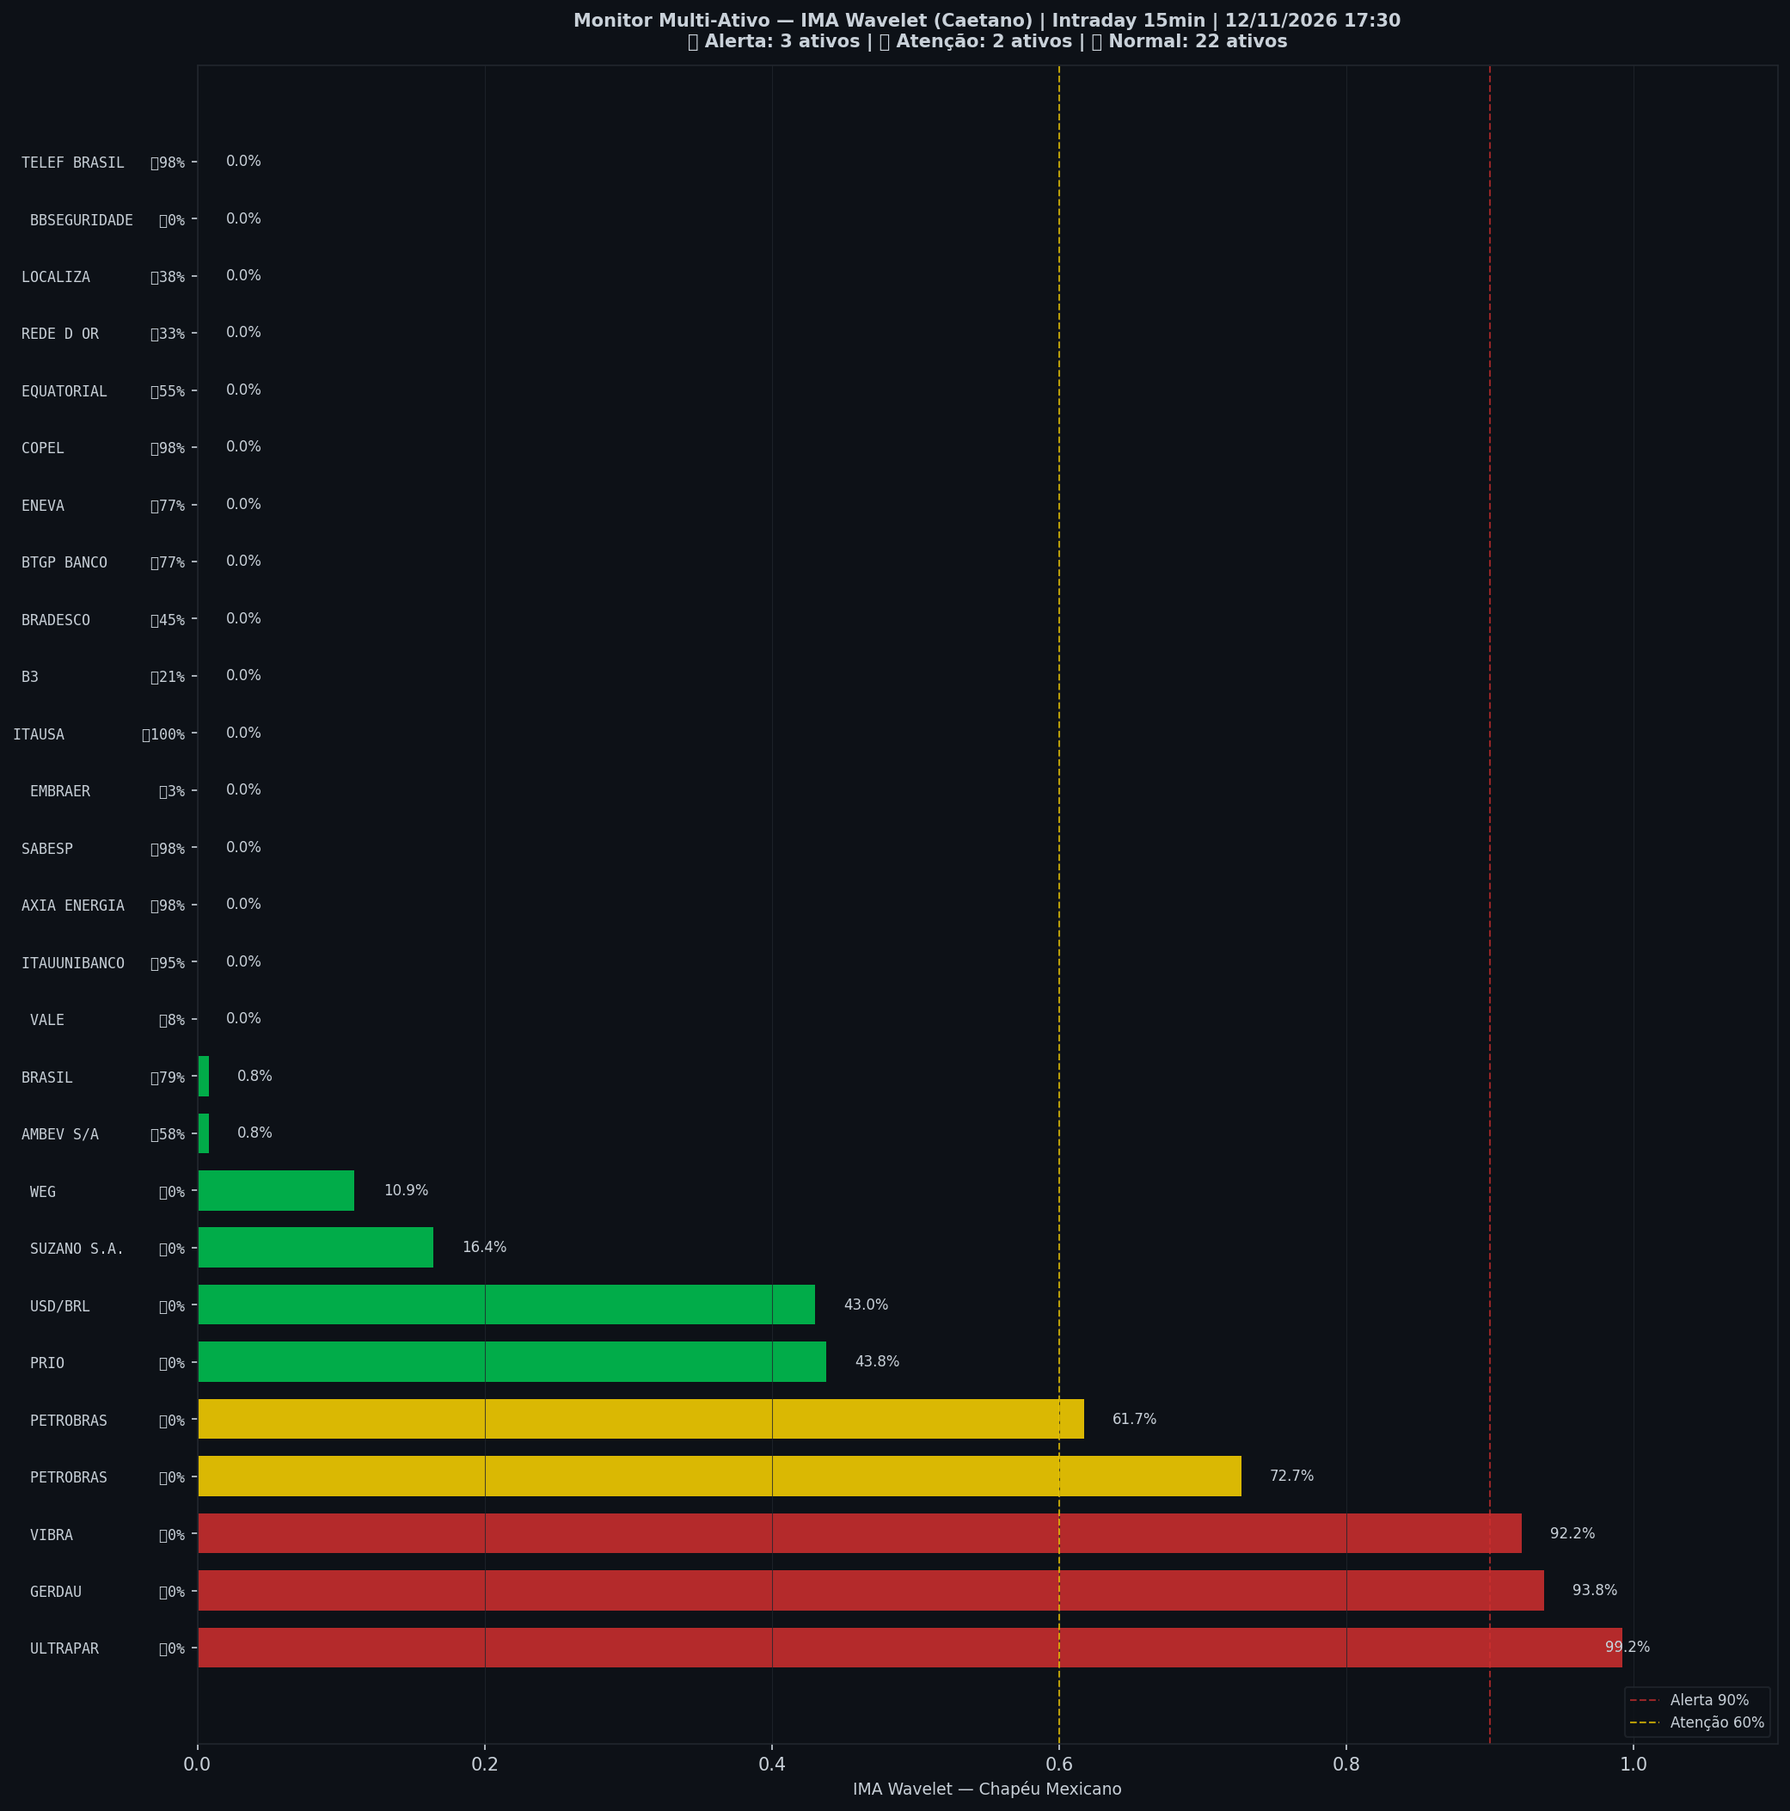
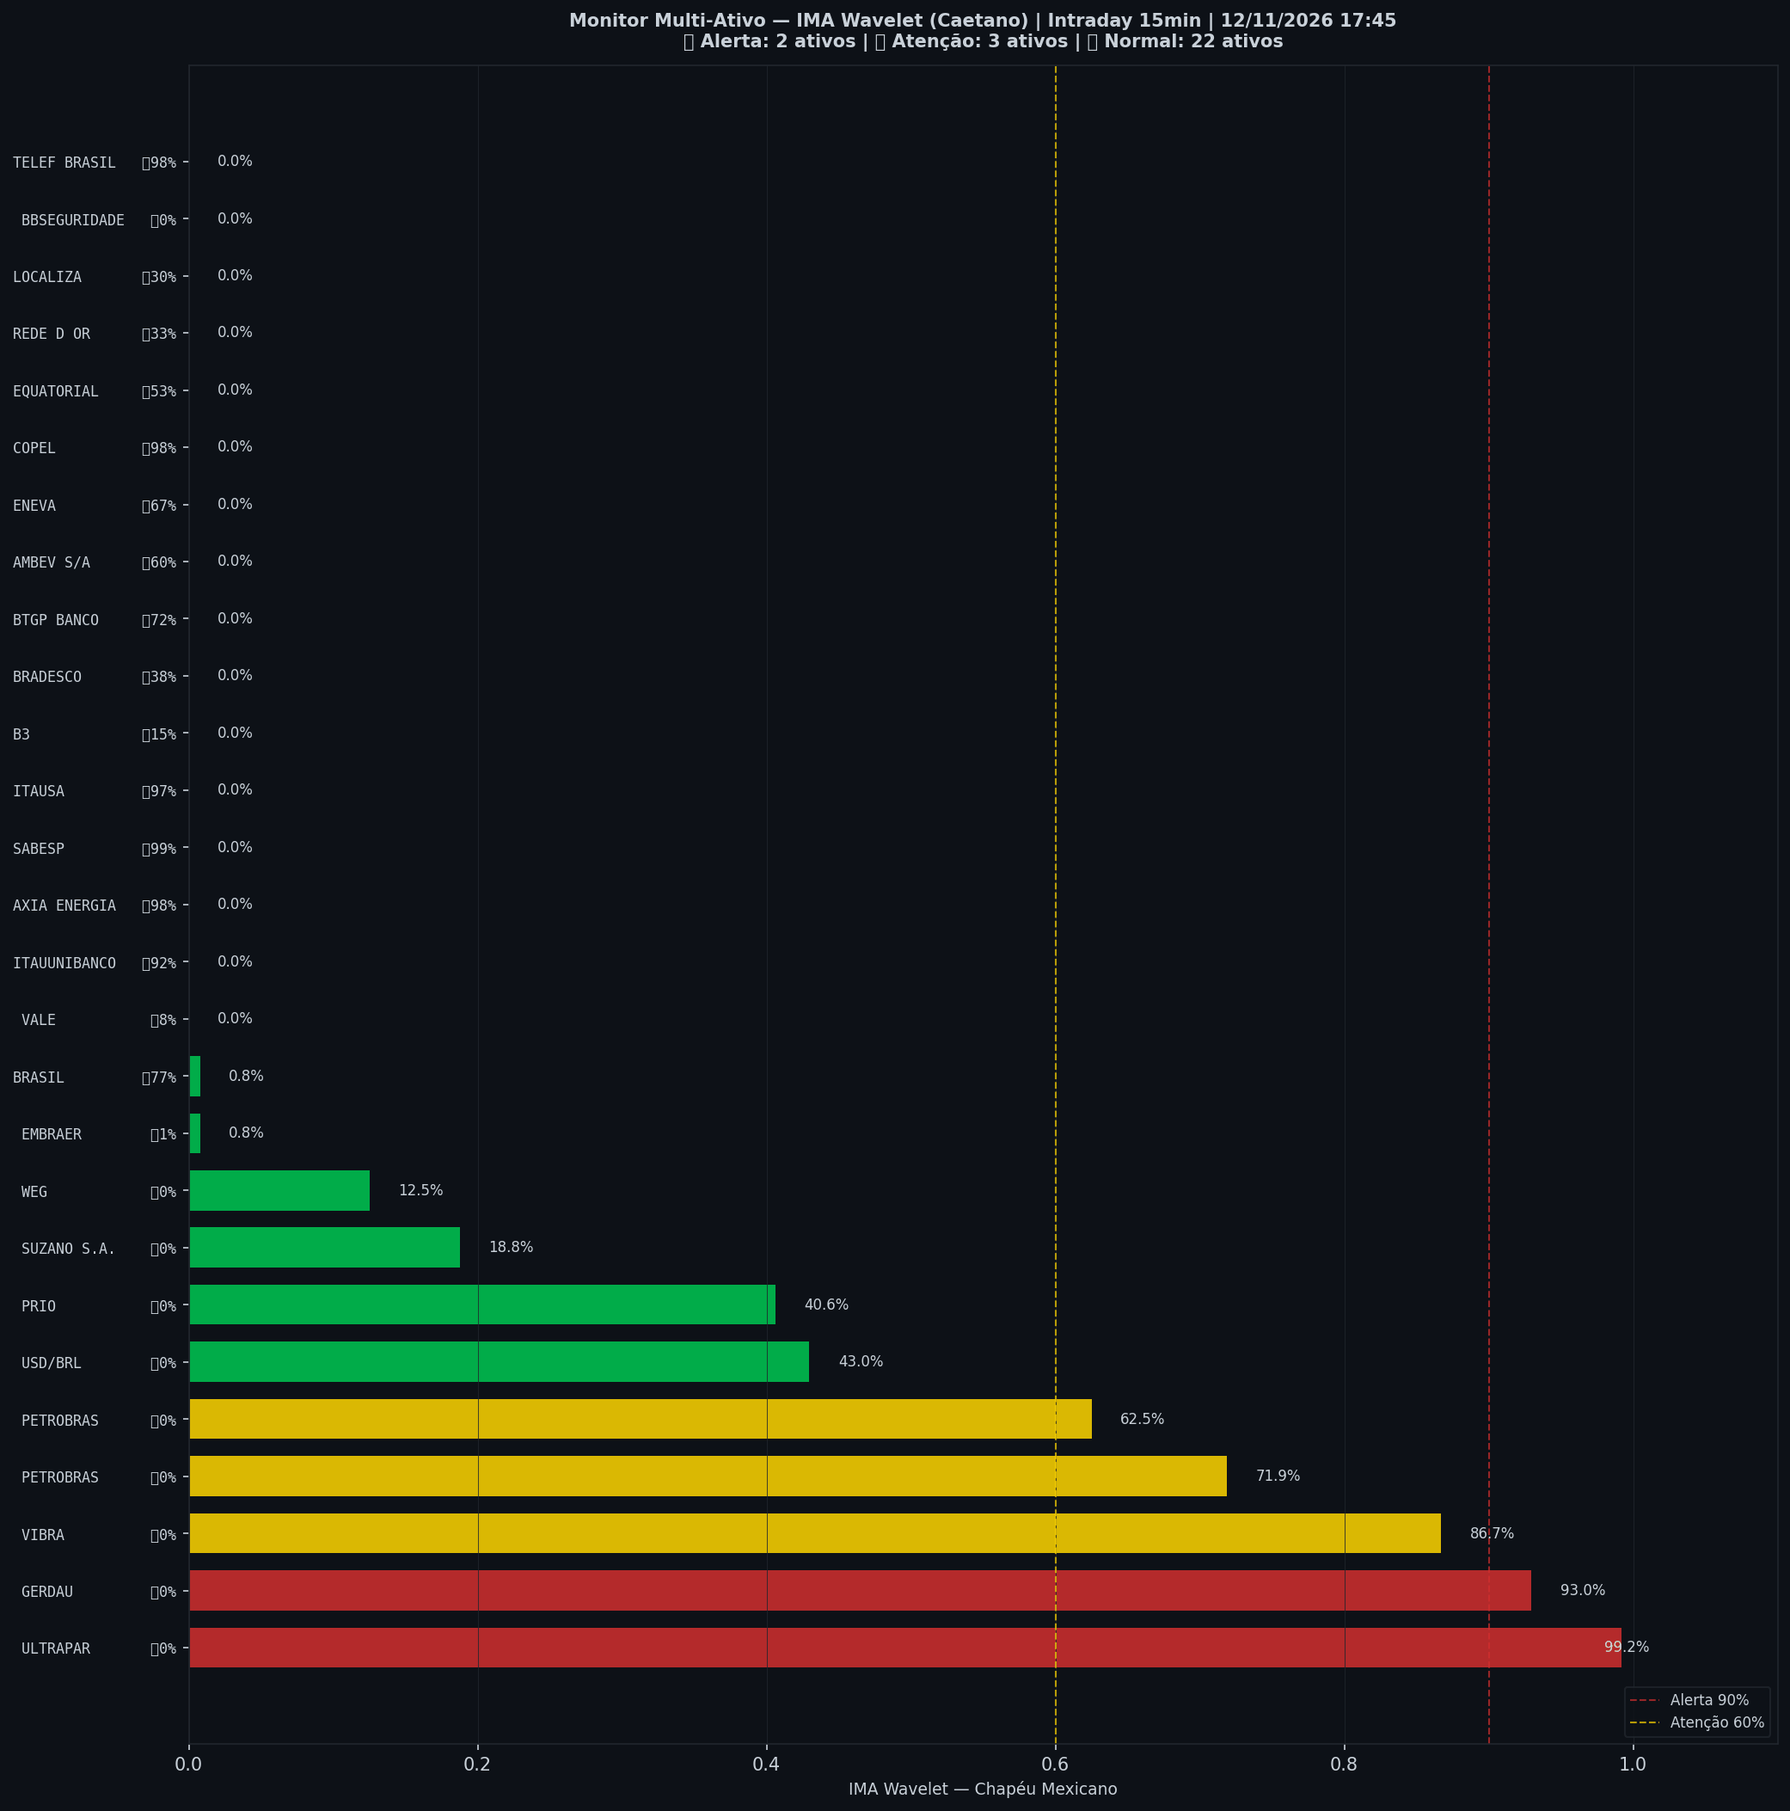
🤖 Auto: Sinal 12/11/2026 17:45

diff --git a/content/intraday/2026-11-12.md b/content/intraday/2026-11-12.md
@@ -1,10 +1,10 @@
 ---
-title: "🟢 Intraday 12/11/2026 17:15 BRT — VERDE"
+title: "🟢 Intraday 12/11/2026 17:30 BRT — VERDE"
 date: 2026-11-12
 tags: [intraday]
 ---
 
-> [!info] Onde o mercado está agora (12/11 17:15, candles de 15 min): **🔵 Esticado para baixo**
+> [!info] Onde o mercado está agora (12/11 17:30, candles de 15 min): **🔵 Esticado para baixo**
 > `Pânico ◀───●─────────────────▶ Euforia`
 >
 > O Ibovespa caiu mais rápido que o normal e está abaixo da sua faixa habitual.
@@ -20,26 +20,26 @@ tags: [intraday]
 > | 📍 **Sinais** | hoje: nenhum sinal | [abrir](sinais-topo-fundo/) |
 > | 🧪 **Placar ao vivo** | 1 operação(ões), 0 com lucro, soma -0,8% | [abrir](operacoes/) |
 
-> [!success] IMA Intraday · 15 min (12/11 17:15): 🟢 **VERDE** — Risco 0% · ＝ +0 p.p. vs leitura anterior
+> [!success] IMA Intraday · 15 min (12/11 17:30): 🟢 **VERDE** — Risco 0% · ＝ +0 p.p. vs leitura anterior
 > `░░░░░░░░░░░░░░░░░░░░`
 > Preço na faixa normal em torno da tendência.
 
 
-> [!warning] ⚠ Nível alto agora — IMA Intraday · 15 min (12/11 17:15)
-> - 🔵 **ζ Fundo 71%** — preço esticado abaixo da tendência
+> [!warning] ⚠ Nível alto agora — IMA Intraday · 15 min (12/11 17:30)
+> - 🔵 **ζ Fundo 68%** — preço esticado abaixo da tendência
 
 > [!note] 🧭 IMA Diário · viés (11/11): 🌱 **Fundo se desfazendo**
 > 📚 só contexto: o pânico passou; sem vantagem estatística confirmada para comprar só por isso
 >
 > *Leitura educacional baseada em 26 anos de dados, não recomendação. [Como usar](../metodologia/crise#3-como-usar-na-prática).*
 
-| Indicador — IMA Intraday · 15 min (12/11 17:15) | Valor |
+| Indicador — IMA Intraday · 15 min (12/11 17:30) | Valor |
 |---|---|
 | 🔴 ζ Topo — preço esticado acima da tendência | **0%** |
-| 🔵 ζ Fundo — preço esticado abaixo da tendência | 🔵 **71%** |
+| 🔵 ζ Fundo — preço esticado abaixo da tendência | 🔵 **68%** |
 | 🫧 LPPL bolha — alta super-exponencial (risco de crash) | 0% |
 | 🫧 LPPL antibolha — queda super-exponencial (risco de repique) | 0% |
-| 📊 Ibovespa | 170.693 pts |
+| 📊 Ibovespa | 170.880 pts |
 
 ![Gráfico do sinal](../graficos/sinal_intraday.png)
 
@@ -47,6 +47,7 @@ tags: [intraday]
 
 | Data | Zona | Evento | Risco | ζ Topo | ζ Fundo | LPPL |
 |---|---|---|---|---|---|---|
+| 2026-11-12 17:30 | 🟢 VERDE |  | **0%** | 0% | 🔵 **68%** | 0% |
 | 2026-11-12 17:15 | 🟢 VERDE |  | **0%** | 0% | 🔵 **71%** | 0% |
 | 2026-11-12 17:00 | 🟢 VERDE |  | **0%** | 0% | 🔵 **74%** | 0% |
 | 2026-11-12 16:45 | 🟢 VERDE |  | **0%** | 0% | 🔵 **74%** | 0% |
@@ -76,52 +77,51 @@ tags: [intraday]
 | 2026-11-12 10:45 | 🟢 VERDE |  | **0%** | 0% | 21% | 0% |
 | 2026-11-12 10:30 | 🟢 VERDE |  | **1%** | 1% | 17% | 0% |
 | 2026-11-12 10:15 | 🟢 VERDE |  | **2%** | 2% | 12% | 0% |
-| 2026-11-12 10:00 | 🟢 VERDE |  | **2%** | 2% | 7% | 0% |
 
 <small>Destaques: 🟡 ≥ 60% · 🔴 ≥ 90% (Risco e ζ Topo) · 🔵 ≥ 60% · 🔪 ≥ 90% (ζ Fundo) · 🫧 ≥ 30% · 🫧🔴 ≥ 50% (LPPL)</small>
 
 ## Monitor Multi-Ativo
 
-**19% dos ativos em tensão** (3🔴 2🟡) · **9 com ζ Fundo alto** — quanto mais ativos disparam juntos, mais confiável o sinal.
+**19% dos ativos em tensão** (3🔴 2🟡) · **10 com ζ Fundo alto** — quanto mais ativos disparam juntos, mais confiável o sinal.
 
 > [!danger] Em destaque no multi-ativo
-> 🔪 **ITAUSA** ζ Fundo 100% · 🔴 **ULTRAPAR** ζ Topo 99% · 🔪 **SABESP** ζ Fundo 98% · 🔪 **AXIA ENERGIA** ζ Fundo 98% · 🔪 **COPEL** ζ Fundo 98% · 🔪 **TELEF BRASIL** ζ Fundo 98% · 🔪 **ITAUUNIBANCO** ζ Fundo 95% · 🔴 **GERDAU** ζ Topo 94% · 🔴 **VIBRA** ζ Topo 92% · 🔵 **BRASIL** ζ Fundo 79% · 🔵 **ENEVA** ζ Fundo 77% · 🔵 **BTGP BANCO** ζ Fundo 77% · 🟡 **PETROBRAS** ζ Topo 73% · 🟡 **PETROBRAS** ζ Topo 62%
+> 🔪 **SABESP** ζ Fundo 99% · 🔴 **ULTRAPAR** ζ Topo 99% · 🔪 **AXIA ENERGIA** ζ Fundo 98% · 🔪 **COPEL** ζ Fundo 98% · 🔪 **TELEF BRASIL** ζ Fundo 98% · 🔪 **ITAUSA** ζ Fundo 97% · 🔴 **GERDAU** ζ Topo 93% · 🔪 **ITAUUNIBANCO** ζ Fundo 92% · 🟡 **VIBRA** ζ Topo 87% · 🔵 **BRASIL** ζ Fundo 77% · 🟡 **PETROBRAS** ζ Topo 72% · 🔵 **BTGP BANCO** ζ Fundo 72% · 🔵 **ENEVA** ζ Fundo 67% · 🟡 **PETROBRAS** ζ Topo 62% · 🔵 **AMBEV S/A** ζ Fundo 60%
 
 | Zona | Ativo | Setor | ζ Topo | ζ Fundo |
 |---|---|---|---|---|
-| 🟢 | **ITAUSA** | Financeiro | 0.0% | 🔪 **100.0%** |
+| 🟢 | **SABESP** | Saneamento | 0.0% | 🔪 **99.2%** |
 | 🔴 | **ULTRAPAR** | Outros | 🔴 **99.2%** | 0.0% |
-| 🟢 | **SABESP** | Saneamento | 0.0% | 🔪 **98.4%** |
 | 🟢 | **AXIA ENERGIA** | Energia | 0.0% | 🔪 **97.7%** |
 | 🟢 | **COPEL** | Energia | 0.0% | 🔪 **97.7%** |
 | 🟢 | **TELEF BRASIL** | Outros | 0.0% | 🔪 **97.7%** |
-| 🟢 | **ITAUUNIBANCO** | Financeiro | 0.0% | 🔪 **94.5%** |
-| 🔴 | **GERDAU** | Siderurgia | 🔴 **93.8%** | 0.0% |
-| 🔴 | **VIBRA** | Energia | 🔴 **92.2%** | 0.0% |
-| 🟢 | **BRASIL** | Financeiro | 0.8% | 🔵 **78.9%** |
-| 🟢 | **ENEVA** | Energia | 0.0% | 🔵 **77.3%** |
-| 🟢 | **BTGP BANCO** | Financeiro | 0.0% | 🔵 **76.6%** |
-| 🟡 | **PETROBRAS** | Petróleo | 🟡 **72.7%** | 0.0% |
-| 🟡 | **PETROBRAS** | Petróleo | 🟡 **61.7%** | 0.0% |
-| 🟢 | **AMBEV S/A** | Consumo | 0.8% | 57.8% |
-| 🟢 | **EQUATORIAL** | Energia | 0.0% | 55.5% |
-| 🟢 | **BRADESCO** | Financeiro | 0.0% | 44.5% |
-| 🟢 | **PRIO** | Petróleo | 43.8% | 0.0% |
+| 🟢 | **ITAUSA** | Financeiro | 0.0% | 🔪 **96.9%** |
+| 🔴 | **GERDAU** | Siderurgia | 🔴 **93.0%** | 0.0% |
+| 🟢 | **ITAUUNIBANCO** | Financeiro | 0.0% | 🔪 **92.2%** |
+| 🔴 | **VIBRA** | Energia | 🟡 **86.7%** | 0.0% |
+| 🟢 | **BRASIL** | Financeiro | 0.8% | 🔵 **76.6%** |
+| 🟡 | **PETROBRAS** | Petróleo | 🟡 **71.9%** | 0.0% |
+| 🟢 | **BTGP BANCO** | Financeiro | 0.0% | 🔵 **71.9%** |
+| 🟢 | **ENEVA** | Energia | 0.0% | 🔵 **67.2%** |
+| 🟡 | **PETROBRAS** | Petróleo | 🟡 **62.5%** | 0.0% |
+| 🟢 | **AMBEV S/A** | Consumo | 0.0% | 🔵 **60.2%** |
+| 🟢 | **EQUATORIAL** | Energia | 0.0% | 53.1% |
 | 🟢 | **USD/BRL** | Câmbio | 43.0% | 0.0% |
-| 🟢 | **LOCALIZA** | Aluguel | 0.0% | 37.5% |
+| 🟢 | **PRIO** | Petróleo | 40.6% | 0.0% |
+| 🟢 | **BRADESCO** | Financeiro | 0.0% | 37.5% |
 | 🟢 | **REDE D OR** | Saúde | 0.0% | 32.8% |
-| 🟢 | **B3** | Financeiro | 0.0% | 21.1% |
-| 🟢 | **SUZANO S.A.** | Papel/Celulose | 16.4% | 0.0% |
-| 🟢 | **WEG** | Industrial | 10.9% | 0.0% |
+| 🟢 | **LOCALIZA** | Aluguel | 0.0% | 29.7% |
+| 🟢 | **SUZANO S.A.** | Papel/Celulose | 18.8% | 0.0% |
+| 🟢 | **B3** | Financeiro | 0.0% | 14.8% |
+| 🟢 | **WEG** | Industrial | 12.5% | 0.0% |
 | 🟢 | **VALE** | Mineração | 0.0% | 7.8% |
-| 🟢 | **EMBRAER** | Outros | 0.0% | 3.1% |
+| 🟢 | **EMBRAER** | Outros | 0.8% | 0.8% |
 | 🟢 | **BBSEGURIDADE** | Financeiro | 0.0% | 0.0% |
 
 <small>Destaques: 🟡 ≥ 60% · 🔴 ≥ 90% (Risco e ζ Topo) · 🔵 ≥ 60% · 🔪 ≥ 90% (ζ Fundo) · 🫧 ≥ 30% · 🫧🔴 ≥ 50% (LPPL)</small>
 
 ![Monitor multi-ativo](../graficos/multi_intraday.png)
 
-*Página atualizada em 12/11/2026 17:30 BRT (leitura da barra de 2026-11-12 17:15 BRT).*
+*Página atualizada em 12/11/2026 17:45 BRT (leitura da barra de 2026-11-12 17:30 BRT).*
 
 > [!warning] O que este indicador não faz
 > Medido em 5 anos de Ibovespa, o ζ **não antecipa** topos nem fundos: a capacidade de separar o que sobe do que cai ficou em 0,49–0,52, e 0,50 é moeda jogada ao ar. Ele descreve o estado de agora; não é aviso do que vem. As zonas verde/amarelo/vermelho continuam na página como descrição desse estado — **não as use como sinal de entrada ou saída**.

diff --git a/content/index.md b/content/index.md
@@ -6,9 +6,9 @@ tags: [home]
 
 **As ondas do mercado, explicadas.** Leitura do Ibovespa com estatística de 26 anos, baseada no trabalho de pesquisadores e traders reconhecidos e adaptada por Jarbas Daniel da Costa.
 
-*Última atualização: 12/11/2026 17:30 BRT · Intraday 15min*
+*Última atualização: 12/11/2026 17:45 BRT · Intraday 15min*
 
-> [!info] Onde o mercado está agora (12/11 17:15, candles de 15 min): **🔵 Esticado para baixo**
+> [!info] Onde o mercado está agora (12/11 17:30, candles de 15 min): **🔵 Esticado para baixo**
 > `Pânico ◀───●─────────────────▶ Euforia`
 >
 > O Ibovespa caiu mais rápido que o normal e está abaixo da sua faixa habitual.
@@ -16,8 +16,8 @@ tags: [home]
 >
 > *Leitura educacional baseada em 26 anos de dados. Não é recomendação de investimento.*
 
-> [!warning] ⚠ Nível alto agora — IMA Intraday · 15 min (12/11 17:15)
-> - 🔵 **ζ Fundo 71%** — preço esticado abaixo da tendência
+> [!warning] ⚠ Nível alto agora — IMA Intraday · 15 min (12/11 17:30)
+> - 🔵 **ζ Fundo 68%** — preço esticado abaixo da tendência
 
 ## Agora
 
@@ -47,18 +47,18 @@ tags: [home]
 > *Leitura educacional baseada em 26 anos de dados, não recomendação. [Como usar](metodologia/crise#3-como-usar-na-prática).*
 
 > [!info]- 🌊 Detalhes do Sinal IMA (indicadores e últimos 7 pregões)
-> > [!success] IMA Intraday · 15 min (12/11 17:15): 🟢 **VERDE** — Risco 0% · ＝ +0 p.p. vs leitura anterior
+> > [!success] IMA Intraday · 15 min (12/11 17:30): 🟢 **VERDE** — Risco 0% · ＝ +0 p.p. vs leitura anterior
 > > `░░░░░░░░░░░░░░░░░░░░`
 > > Preço na faixa normal em torno da tendência.
 >
 >
-> | Indicador — IMA Intraday · 15 min (12/11 17:15) | Valor |
+> | Indicador — IMA Intraday · 15 min (12/11 17:30) | Valor |
 > |---|---|
 > | 🔴 ζ Topo — preço esticado acima da tendência | **0%** |
-> | 🔵 ζ Fundo — preço esticado abaixo da tendência | 🔵 **71%** |
+> | 🔵 ζ Fundo — preço esticado abaixo da tendência | 🔵 **68%** |
 > | 🫧 LPPL bolha — alta super-exponencial (risco de crash) | 0% |
 > | 🫧 LPPL antibolha — queda super-exponencial (risco de repique) | 0% |
-> | 📊 Ibovespa | 170.693 pts |
+> | 📊 Ibovespa | 170.880 pts |
 >
 > **Multi-ativo:** 19% em tensão (3🔴 2🟡 de 27 ativos)
 >
@@ -66,7 +66,7 @@ tags: [home]
 >
 > | Data | Zona | Risco | ζ Topo | ζ Fundo | LPPL |
 > |---|---|---|---|---|---|
-> | [12/11/2026](intraday/2026-11-12) | 🟢 VERDE | **0%** | 0% | 🔵 **71%** | 0% |
+> | [12/11/2026](intraday/2026-11-12) | 🟢 VERDE | **0%** | 0% | 🔵 **68%** | 0% |
 >
 > <small>Destaques: 🟡 ≥ 60% · 🔴 ≥ 90% (Risco e ζ Topo) · 🔵 ≥ 60% · 🔪 ≥ 90% (ζ Fundo) · 🫧 ≥ 30% · 🫧🔴 ≥ 50% (LPPL)</small>
 >

diff --git a/content/operacoes/entradas.md b/content/operacoes/entradas.md
@@ -31,7 +31,7 @@ description: "Compra depois de um sinal de fundo: Nadaraya no diário, semáforo
 > | Diário · Semáforo N3 após ζ Fundo | 07/07/26 a 172.021 | 10/08/26 a 172.021 | **+0,0%** | stop no preço de entrada |
 > | H4 · Semáforo N2 | 12/06/26 14h a 171.134 | 15/06/26 14h a 171.134 | **+0,0%** | stop no preço de entrada |
 >
-> <small>Atualizado 11/11 19:00 · checado no pregão às 17:30. Nota: ✅ passou no teste fora da amostra (walk-forward 2008–2026) · 🧪 em teste (H4, com aviso no Telegram) ou em observação (ζ, sem aviso) · 🧪 na tabela = operação do teste ao vivo.</small>
+> <small>Atualizado 11/11 19:00 · checado no pregão às 17:45. Nota: ✅ passou no teste fora da amostra (walk-forward 2008–2026) · 🧪 em teste (H4, com aviso no Telegram) ou em observação (ζ, sem aviso) · 🧪 na tabela = operação do teste ao vivo.</small>
 >
 > *Regras: depois de um sinal de fundo, o Diário entra quando o Nadaraya vira para cima; o Semanal e o H4 entram quando um fundo do semáforo fica fixo. Stop e saída de cada regra na [metodologia](metodologia/regras-de-operacao#entradas-do-método). Nenhuma regra de venda passou no teste. Os números do histórico têm viés de escolha (overfitting); o placar ao vivo é o que vale. Leitura educacional do método, não recomendação.*
 

diff --git a/content/historico.md b/content/historico.md
@@ -5,7 +5,7 @@ tags: [historico]
 
 # 📜 Histórico de leituras (v5)
 
-**2.342 leituras** desde 2026-07-03. Na página ficam os últimos 3 dias leitura por leitura e o resumo de cada dia anterior; o registro inteiro está no arquivo para baixar.
+**2.343 leituras** desde 2026-07-03. Na página ficam os últimos 3 dias leitura por leitura e o resumo de cada dia anterior; o registro inteiro está no arquivo para baixar.
 
 [**Baixar o histórico completo**](historico-completo.csv) (103 KB · abre no Excel e no LibreOffice)
 
@@ -16,6 +16,7 @@ tags: [historico]
 
 | Data | Modo | Zona | Risco | IMA | LPPL |
 |---|---|---|---|---|---|
+| 2026-11-12 17:30 | intraday | 🟢 VERDE | 0% | 0% | 0% |
 | 2026-11-12 17:15 | intraday | 🟢 VERDE | 0% | 0% | 0% |
 | 2026-11-12 17:00 | intraday | 🟢 VERDE | 0% | 0% | 0% |
 | 2026-11-12 16:45 | intraday | 🟢 VERDE | 0% | 0% | 0% |

diff --git a/content/operacoes/ranking.md b/content/operacoes/ranking.md
@@ -5,7 +5,7 @@ tags: [operacoes]
 description: "As regras de compra do site ordenadas pelo resultado, com treino, teste e placar ao vivo"
 ---
 
-*Atualizado 12/11/2026 17:30 · histórico simulado com as regras congeladas em 23/10/2026 + placar ao vivo.*
+*Atualizado 12/11/2026 17:45 · histórico simulado com as regras congeladas em 23/10/2026 + placar ao vivo.*
 
 As regras de compra do site, **da que mais rendeu para a que menos rendeu**. O resultado é por operação, no índice à vista, sem custos e sem juros compostos (a soma é só a soma das operações). **Treino** = entradas de 2001 a 2013 e **teste** = 2014 em diante: uma regra só é confiável se ganhou nos dois. O único resultado sem nenhum ajuste ao histórico é o **placar ao vivo**.
 

diff --git a/content/linha-do-tempo/index.md b/content/linha-do-tempo/index.md
@@ -5,7 +5,7 @@ description: "Todo sinal, ordem, stop e aviso do Pêndulo de Mercado, do mais re
 tags: [eventos]
 ---
 
-*Atualizada 12/11/2026 17:30 BRT · a cada 15 min no pregão e às 19h.*
+*Atualizada 12/11/2026 17:45 BRT · a cada 15 min no pregão e às 19h.*
 
 Tudo o que o sistema fez ou detectou, **do mais recente para o mais antigo**: sinais de topo e fundo, ordens de compra e de venda armadas, compras, vendas, stops, avisos de 🚨 preço perto do nível e mudanças do Sinal IMA. Os **últimos 7 dias** ficam abertos; o resto, por **ano → mês → dia**.
 
